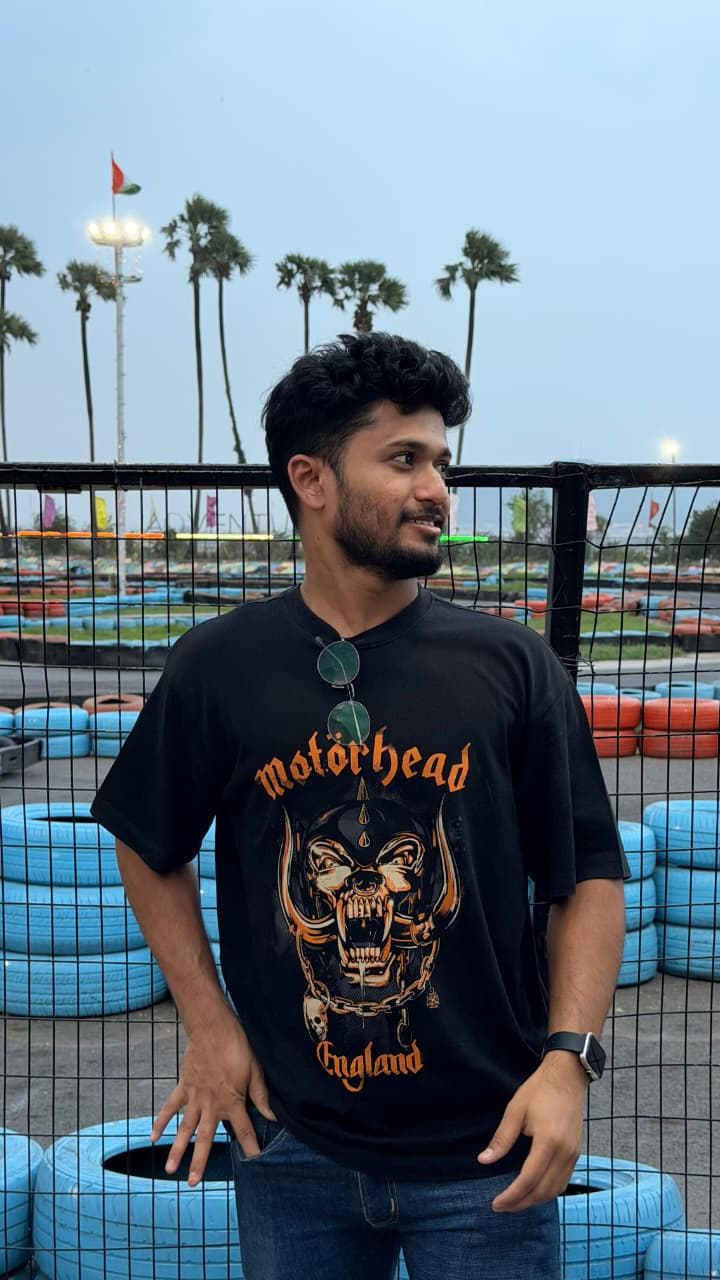
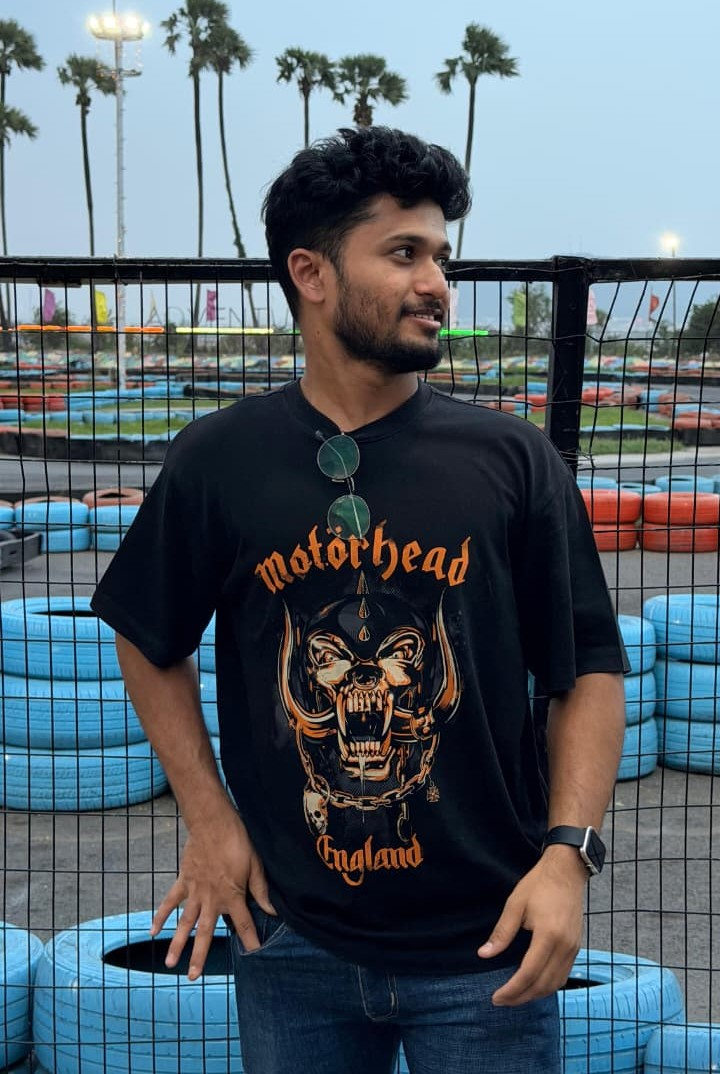
Circular Profile Added

diff --git a/components/sections/Hero.tsx b/components/sections/Hero.tsx
@@ -1,17 +1,33 @@
+"use client";
+
 import Image from "next/image";
+import { useState } from "react";
 import {
   Github,
   Linkedin,
   Download,
   ExternalLink,
   Code2,
+  Terminal,
   ArrowDown,
+  Eye,
 } from "lucide-react";
 import { heroData } from "@/data/portfolio-data";
 
 export default function Hero() {
-  const { name, title, headline, bio, photoPath, photoAlt, resumePath, coverLetterPath, socials } =
-    heroData;
+  const {
+    name,
+    title,
+    headline,
+    bio,
+    photoPath,
+    photoAlt,
+    resumePath,
+    coverLetterPath,
+    socials,
+  } = heroData;
+
+  const [isRevealed, setIsRevealed] = useState(false);
 
   return (
     <section
@@ -19,97 +35,119 @@ export default function Hero() {
       className="relative min-h-[100svh] flex flex-col items-center justify-center px-4 sm:px-6 lg:px-8 pt-20 pb-24 overflow-hidden"
       aria-label="Hero - Introduction"
     >
-      {/* Background ambient gradients */}
-      <div
-        className="absolute inset-0 pointer-events-none"
-        aria-hidden="true"
-      >
-        <div className="absolute top-1/4 left-1/4 w-96 h-96 bg-emerald-500/5 rounded-full blur-3xl" />
-        <div className="absolute bottom-1/3 right-1/4 w-80 h-80 bg-indigo-500/5 rounded-full blur-3xl" />
-        <div className="absolute top-1/2 left-1/2 -translate-x-1/2 -translate-y-1/2 w-[600px] h-[600px] bg-emerald-500/[0.02] rounded-full blur-3xl" />
+      {/* Signature element: grid mesh */}
+      <div className="hero-grid" aria-hidden="true" />
+
+      {/* Ambient radial glows */}
+      <div className="absolute inset-0 pointer-events-none" aria-hidden="true">
+        <div className="absolute top-1/3 left-1/4 w-[480px] h-[480px] bg-cyan-500/[0.055] rounded-full blur-[80px]" />
+        <div className="absolute bottom-1/4 right-1/5 w-[360px] h-[360px] bg-violet-500/[0.05] rounded-full blur-[80px]" />
       </div>
 
       <div className="relative max-w-6xl mx-auto w-full">
         <div className="flex flex-col lg:flex-row items-center lg:items-start gap-10 lg:gap-16">
           {/* ── Photo Column ── */}
-          <div className="flex-shrink-0 flex flex-col items-center gap-4">
-            {/* Profile Image */}
+          <div className="flex-shrink-0 flex flex-col items-center gap-5">
+            {/* Profile image with blur-reveal effect */}
             <div className="relative">
+              {/* Circular image container — CSS classes control blur + glow */}
               <div
-                className="relative w-36 h-36 sm:w-44 sm:h-44 lg:w-52 lg:h-52 rounded-2xl overflow-hidden photo-glow"
-                aria-hidden="true"
+                className={`photo-container w-52 h-52 sm:w-64 sm:h-64 lg:w-80 lg:h-80 select-none${isRevealed ? " revealed" : ""}`}
+                onMouseEnter={() => setIsRevealed(true)}
+                onMouseLeave={() => setIsRevealed(false)}
+                onTouchStart={() => setIsRevealed(true)}
+                onTouchEnd={() => setIsRevealed(false)}
+                role="img"
+                aria-label={
+                  isRevealed ? photoAlt : "Hover or tap to reveal profile photo"
+                }
               >
                 <Image
                   src={photoPath}
                   alt={photoAlt}
                   fill
                   priority
-                  className="object-cover"
-                  sizes="(max-width: 640px) 144px, (max-width: 1024px) 176px, 208px"
+                  className={`photo-img${isRevealed ? " revealed" : ""}`}
+                  sizes="(max-width: 640px) 208px, (max-width: 1024px) 256px, 320px"
                   placeholder="blur"
[1 lines of base64/hex data omitted]
                 />
+
+                {/* Hint overlay — visible when blurred, fades out on hover/tap */}
+                <div
+                  className={`photo-hint${isRevealed ? " revealed" : ""}`}
+                  aria-hidden="true"
+                >
+                  <Eye className="w-5 h-5 text-cyan-300 drop-shadow-lg" />
+                  {/* CSS swaps "Hover" ↔ "Tap" based on pointer type */}
+                  <span className="photo-hint-label text-[10px] font-semibold text-cyan-200/80 font-mono tracking-widest uppercase drop-shadow" />
+                </div>
               </div>
+
               {/* Status badge */}
-              <div className="absolute -bottom-3 -right-3 flex items-center gap-1.5 px-2.5 py-1 rounded-full bg-emerald-950/90 border border-emerald-500/30 text-emerald-400 text-xs font-semibold backdrop-blur-sm shadow-lg">
+              <div className="absolute -bottom-3 left-1/2 -translate-x-1/2 whitespace-nowrap flex items-center gap-1.5 px-3 py-1 rounded-full bg-[#071a10]/90 border border-cyan-500/25 text-cyan-300 text-xs font-semibold backdrop-blur-sm shadow-lg">
                 <span
-                  className="w-1.5 h-1.5 rounded-full bg-emerald-400 pulse-dot"
+                  className="w-1.5 h-1.5 rounded-full bg-cyan-400 pulse-dot"
                   aria-hidden="true"
                 />
                 Open to Work
               </div>
             </div>
 
-            {/* Social Links */}
+            {/* Social icon row */}
             <div
-              className="flex items-center gap-2"
+              className="flex items-center gap-2 mt-1"
               aria-label="Social profiles"
             >
-              <a
-                href={socials.github.url}
-                target="_blank"
-                rel="noopener noreferrer"
-                aria-label="GitHub profile"
-                className="flex items-center justify-center w-9 h-9 rounded-lg text-zinc-400 hover:text-zinc-200 hover:bg-white/[0.06] border border-white/[0.06] hover:border-white/10 transition-all duration-200"
-              >
-                <Github className="w-4 h-4" aria-hidden="true" />
-              </a>
-              <a
-                href={socials.linkedin.url}
-                target="_blank"
-                rel="noopener noreferrer"
-                aria-label="LinkedIn profile"
-                className="flex items-center justify-center w-9 h-9 rounded-lg text-zinc-400 hover:text-blue-400 hover:bg-blue-500/[0.08] border border-white/[0.06] hover:border-blue-500/20 transition-all duration-200"
-              >
-                <Linkedin className="w-4 h-4" aria-hidden="true" />
-              </a>
-              <a
-                href={socials.leetcode.url}
-                target="_blank"
-                rel="noopener noreferrer"
-                aria-label="LeetCode profile"
-                className="flex items-center justify-center w-9 h-9 rounded-lg text-zinc-400 hover:text-yellow-400 hover:bg-yellow-500/[0.08] border border-white/[0.06] hover:border-yellow-500/20 transition-all duration-200 font-mono text-xs font-bold"
-              >
-                LC
-              </a>
-              <a
-                href={socials.codeforces.url}
-                target="_blank"
-                rel="noopener noreferrer"
-                aria-label="Codeforces profile"
-                className="flex items-center justify-center w-9 h-9 rounded-lg text-zinc-400 hover:text-sky-400 hover:bg-sky-500/[0.08] border border-white/[0.06] hover:border-sky-500/20 transition-all duration-200 font-mono text-xs font-bold"
-              >
-                CF
-              </a>
-              <a
-                href={socials.codechef.url}
-                target="_blank"
-                rel="noopener noreferrer"
-                aria-label="CodeChef profile"
-                className="flex items-center justify-center w-9 h-9 rounded-lg text-zinc-400 hover:text-amber-400 hover:bg-amber-500/[0.08] border border-white/[0.06] hover:border-amber-500/20 transition-all duration-200 font-mono text-xs font-bold"
-              >
-                CC
-              </a>
+              {[
+                {
+                  href: socials.github.url,
+                  label: "GitHub",
+                  icon: <Github className="w-4 h-4" />,
+                  hover: "hover:text-white hover:border-white/20",
+                },
+                {
+                  href: socials.linkedin.url,
+                  label: "LinkedIn",
+                  icon: <Linkedin className="w-4 h-4" />,
+                  hover: "hover:text-blue-400 hover:border-blue-500/25",
+                },
+                {
+                  href: socials.leetcode.url,
+                  label: "LeetCode",
+                  icon: (
+                    <span className="font-mono text-[10px] font-bold">LC</span>
+                  ),
+                  hover: "hover:text-yellow-400 hover:border-yellow-500/25",
+                },
+                {
+                  href: socials.codeforces.url,
+                  label: "Codeforces",
+                  icon: (
+                    <span className="font-mono text-[10px] font-bold">CF</span>
+                  ),
+                  hover: "hover:text-sky-400 hover:border-sky-500/25",
+                },
+                {
+                  href: socials.codechef.url,
+                  label: "CodeChef",
+                  icon: (
+                    <span className="font-mono text-[10px] font-bold">CC</span>
+                  ),
+                  hover: "hover:text-amber-400 hover:border-amber-500/25",
+                },
+              ].map(({ href, label, icon, hover }) => (
+                <a
+                  key={label}
+                  href={href}
+                  target="_blank"
+                  rel="noopener noreferrer"
+                  aria-label={label}
+                  className={`flex items-center justify-center w-9 h-9 rounded-lg text-[--text-muted] border border-[--border-subtle] bg-white/[0.02] transition-all duration-200 ${hover}`}
+                >
+                  {icon}
+                </a>
+              ))}
             </div>
           </div>
 
@@ -169,7 +207,10 @@ export default function Hero() {
                 className="group flex items-center gap-2 px-5 py-3 rounded-xl bg-emerald-500 hover:bg-emerald-400 text-zinc-900 font-semibold text-sm transition-all duration-200 shadow-lg shadow-emerald-500/20 hover:shadow-emerald-500/30 min-h-[44px]"
                 aria-label="Download Resume PDF"
               >
-                <Download className="w-4 h-4 group-hover:translate-y-0.5 transition-transform" aria-hidden="true" />
+                <Download
+                  className="w-4 h-4 group-hover:translate-y-0.5 transition-transform"
+                  aria-hidden="true"
+                />
                 Download Resume
                 <span className="text-xs font-normal opacity-70">PDF</span>
               </a>
@@ -181,7 +222,10 @@ export default function Hero() {
                 className="group flex items-center gap-2 px-5 py-3 rounded-xl border border-indigo-500/30 bg-indigo-500/10 hover:bg-indigo-500/20 text-indigo-300 hover:text-indigo-200 font-semibold text-sm transition-all duration-200 min-h-[44px]"
                 aria-label="Download Cover Letter PDF"
               >
-                <Download className="w-4 h-4 group-hover:translate-y-0.5 transition-transform" aria-hidden="true" />
+                <Download
+                  className="w-4 h-4 group-hover:translate-y-0.5 transition-transform"
+                  aria-hidden="true"
+                />
                 Cover Letter
                 <span className="text-xs font-normal opacity-70">PDF</span>
               </a>
@@ -196,7 +240,10 @@ export default function Hero() {
               >
                 <Github className="w-4 h-4" aria-hidden="true" />
                 GitHub
-                <ExternalLink className="w-3 h-3 opacity-50 group-hover:opacity-100 transition-opacity" aria-hidden="true" />
+                <ExternalLink
+                  className="w-3 h-3 opacity-50 group-hover:opacity-100 transition-opacity"
+                  aria-hidden="true"
+                />
               </a>
             </div>
           </div>

diff --git a/app/globals.css b/app/globals.css
@@ -276,3 +276,103 @@ section[id] {
   transform: translateY(-8px) scale(0.95);
   transition: opacity 200ms ease, transform 200ms ease;
 }
+
+/* ── Photo Container (circular) ── */
+.photo-container {
+  position: relative;
+  border-radius: 9999px;
+  overflow: hidden;
+  cursor: pointer;
+  animation: photo-ring-pulse 3.5s ease-in-out infinite;
+  transition: box-shadow 0.5s ease;
+}
+
+.photo-container.revealed {
+  box-shadow:
+    0 0 0 2.5px rgba(34, 211, 238, 0.60),
+    0 0 36px rgba(34, 211, 238, 0.32),
+    0 0 80px rgba(34, 211, 238, 0.14);
+  animation: none;
+}
+
+/* ── Glow ring pulse (idle state) ── */
+@keyframes photo-ring-pulse {
+  0%, 100% {
+    box-shadow:
+      0 0 0 2.5px rgba(34, 211, 238, 0.35),
+      0 0 28px rgba(34, 211, 238, 0.18),
+      0 0 70px rgba(34, 211, 238, 0.07);
+  }
+  50% {
+    box-shadow:
+      0 0 0 2.5px rgba(34, 211, 238, 0.15),
+      0 0 16px rgba(34, 211, 238, 0.08),
+      0 0 45px rgba(34, 211, 238, 0.03);
+  }
+}
+
+/* ── Image blur states ── */
+.photo-img {
+  object-fit: cover;
+  object-position: top;
+  transition: filter 0.5s ease-out, transform 0.5s ease-out;
+  filter: blur(10px) brightness(0.7);
+  transform: scale(1.12);
+  will-change: filter, transform;
+}
+
+.photo-img.revealed {
+  filter: blur(0px) brightness(1);
+  transform: scale(1.05);
+}
+
+/* ── Hint overlay ── */
+.photo-hint {
+  position: absolute;
+  inset: 0;
+  display: flex;
+  flex-direction: column;
+  align-items: center;
+  justify-content: center;
+  gap: 6px;
+  transition: opacity 0.45s ease;
+  opacity: 1;
+  pointer-events: none;
+  background: radial-gradient(circle, rgba(7,11,20,0.30) 0%, rgba(7,11,20,0.52) 100%);
+}
+
+.photo-hint.revealed {
+  opacity: 0;
+}
+
+/* ── Scan-line reveal animation ── */
+@keyframes scan-reveal {
+  0%   { top: -4px; opacity: 0.9; }
+  100% { top: 110%; opacity: 0; }
+}
+
+.photo-container::after {
+  content: "";
+  position: absolute;
+  left: 0;
+  right: 0;
+  top: -4px;
+  height: 3px;
+  background: linear-gradient(90deg, transparent, rgba(34, 211, 238, 0.7), transparent);
+  border-radius: 9999px;
+  opacity: 0;
+  pointer-events: none;
+  z-index: 10;
+}
+
+.photo-container.revealed::after {
+  animation: scan-reveal 0.55s ease-out forwards;
+}
+
+/* ── Hover / Tap label (auto-switches by device) ── */
+@media (hover: none) and (pointer: coarse) {
+  .photo-hint-label::before { content: "Tap"; }
+}
+@media (hover: hover) {
+  .photo-hint-label::before { content: "Hover"; }
+}

diff --git a/components/sections/Papershelf.tsx b/components/sections/Papershelf.tsx
@@ -17,7 +17,7 @@ export default function Papershelf() {
             Research
           </p>
           <h2 className="text-3xl sm:text-4xl font-extrabold text-zinc-100 tracking-tight">
-            Papershelf
+            My Own Papershelf
           </h2>
           <p className="mt-2 text-zinc-500 max-w-xl text-sm sm:text-base">
             Foundational AI, LLM, and Distributed Systems papers I&apos;ve studied and applied to real systems.
